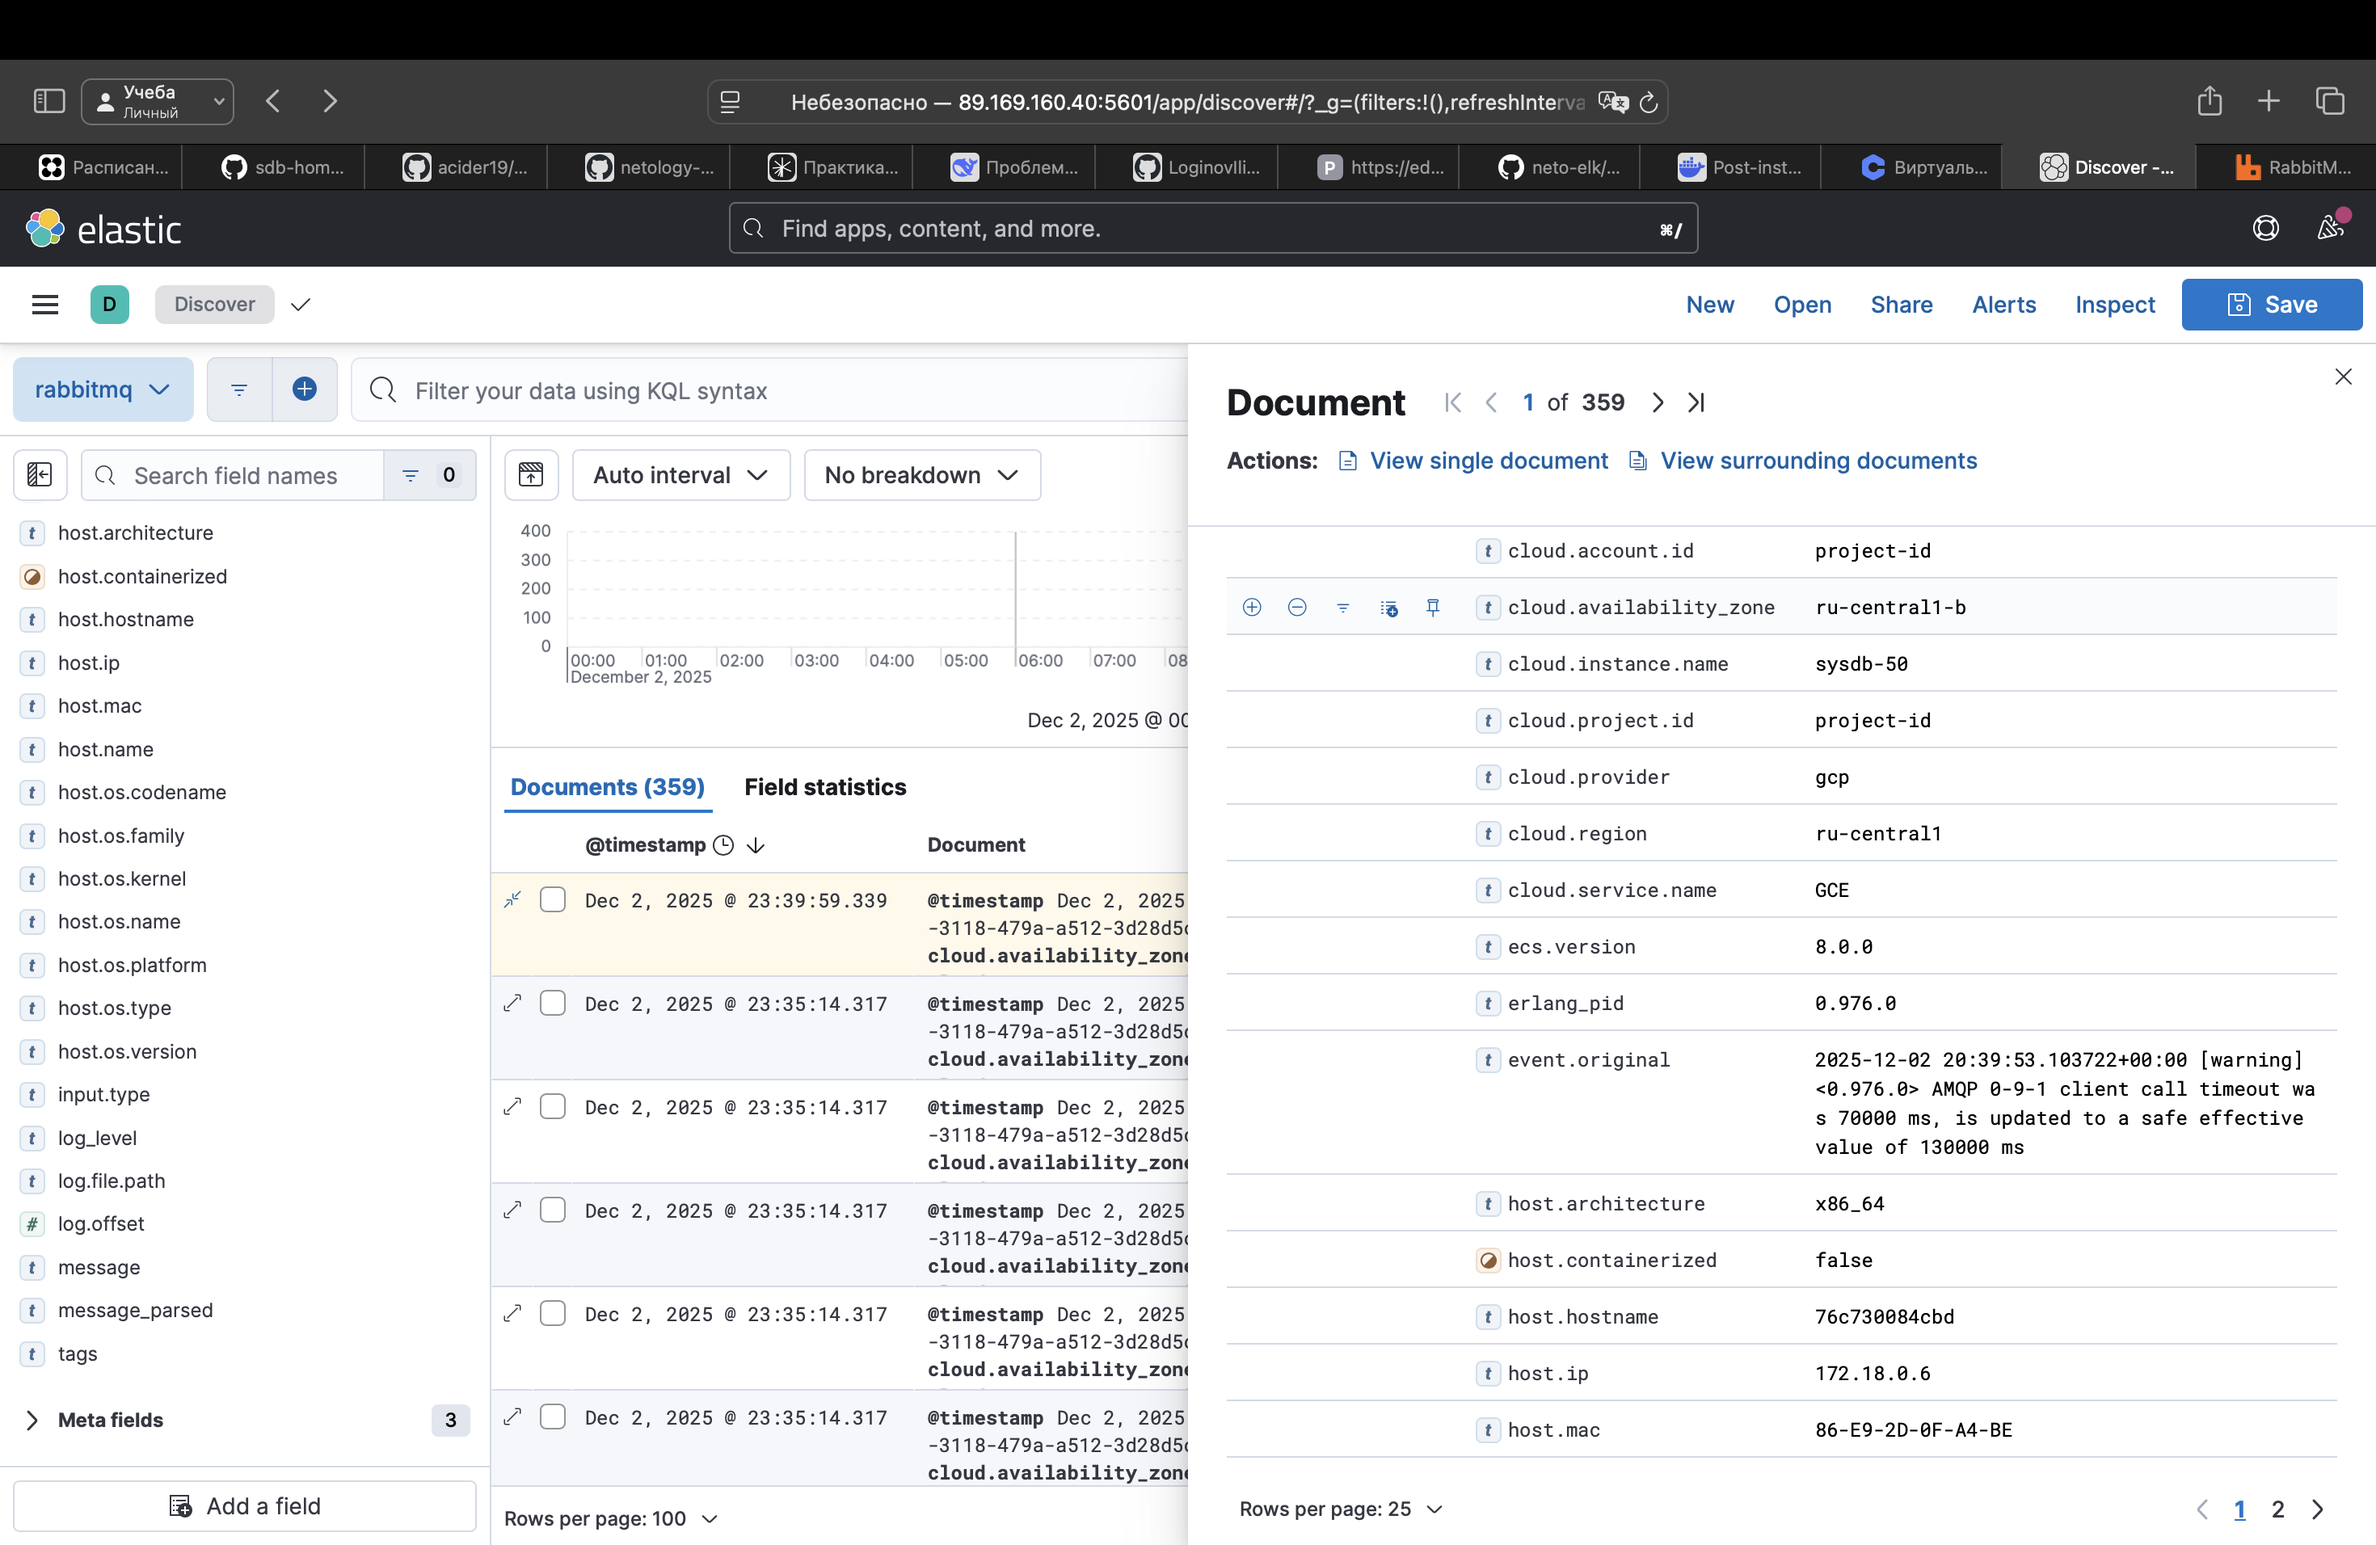
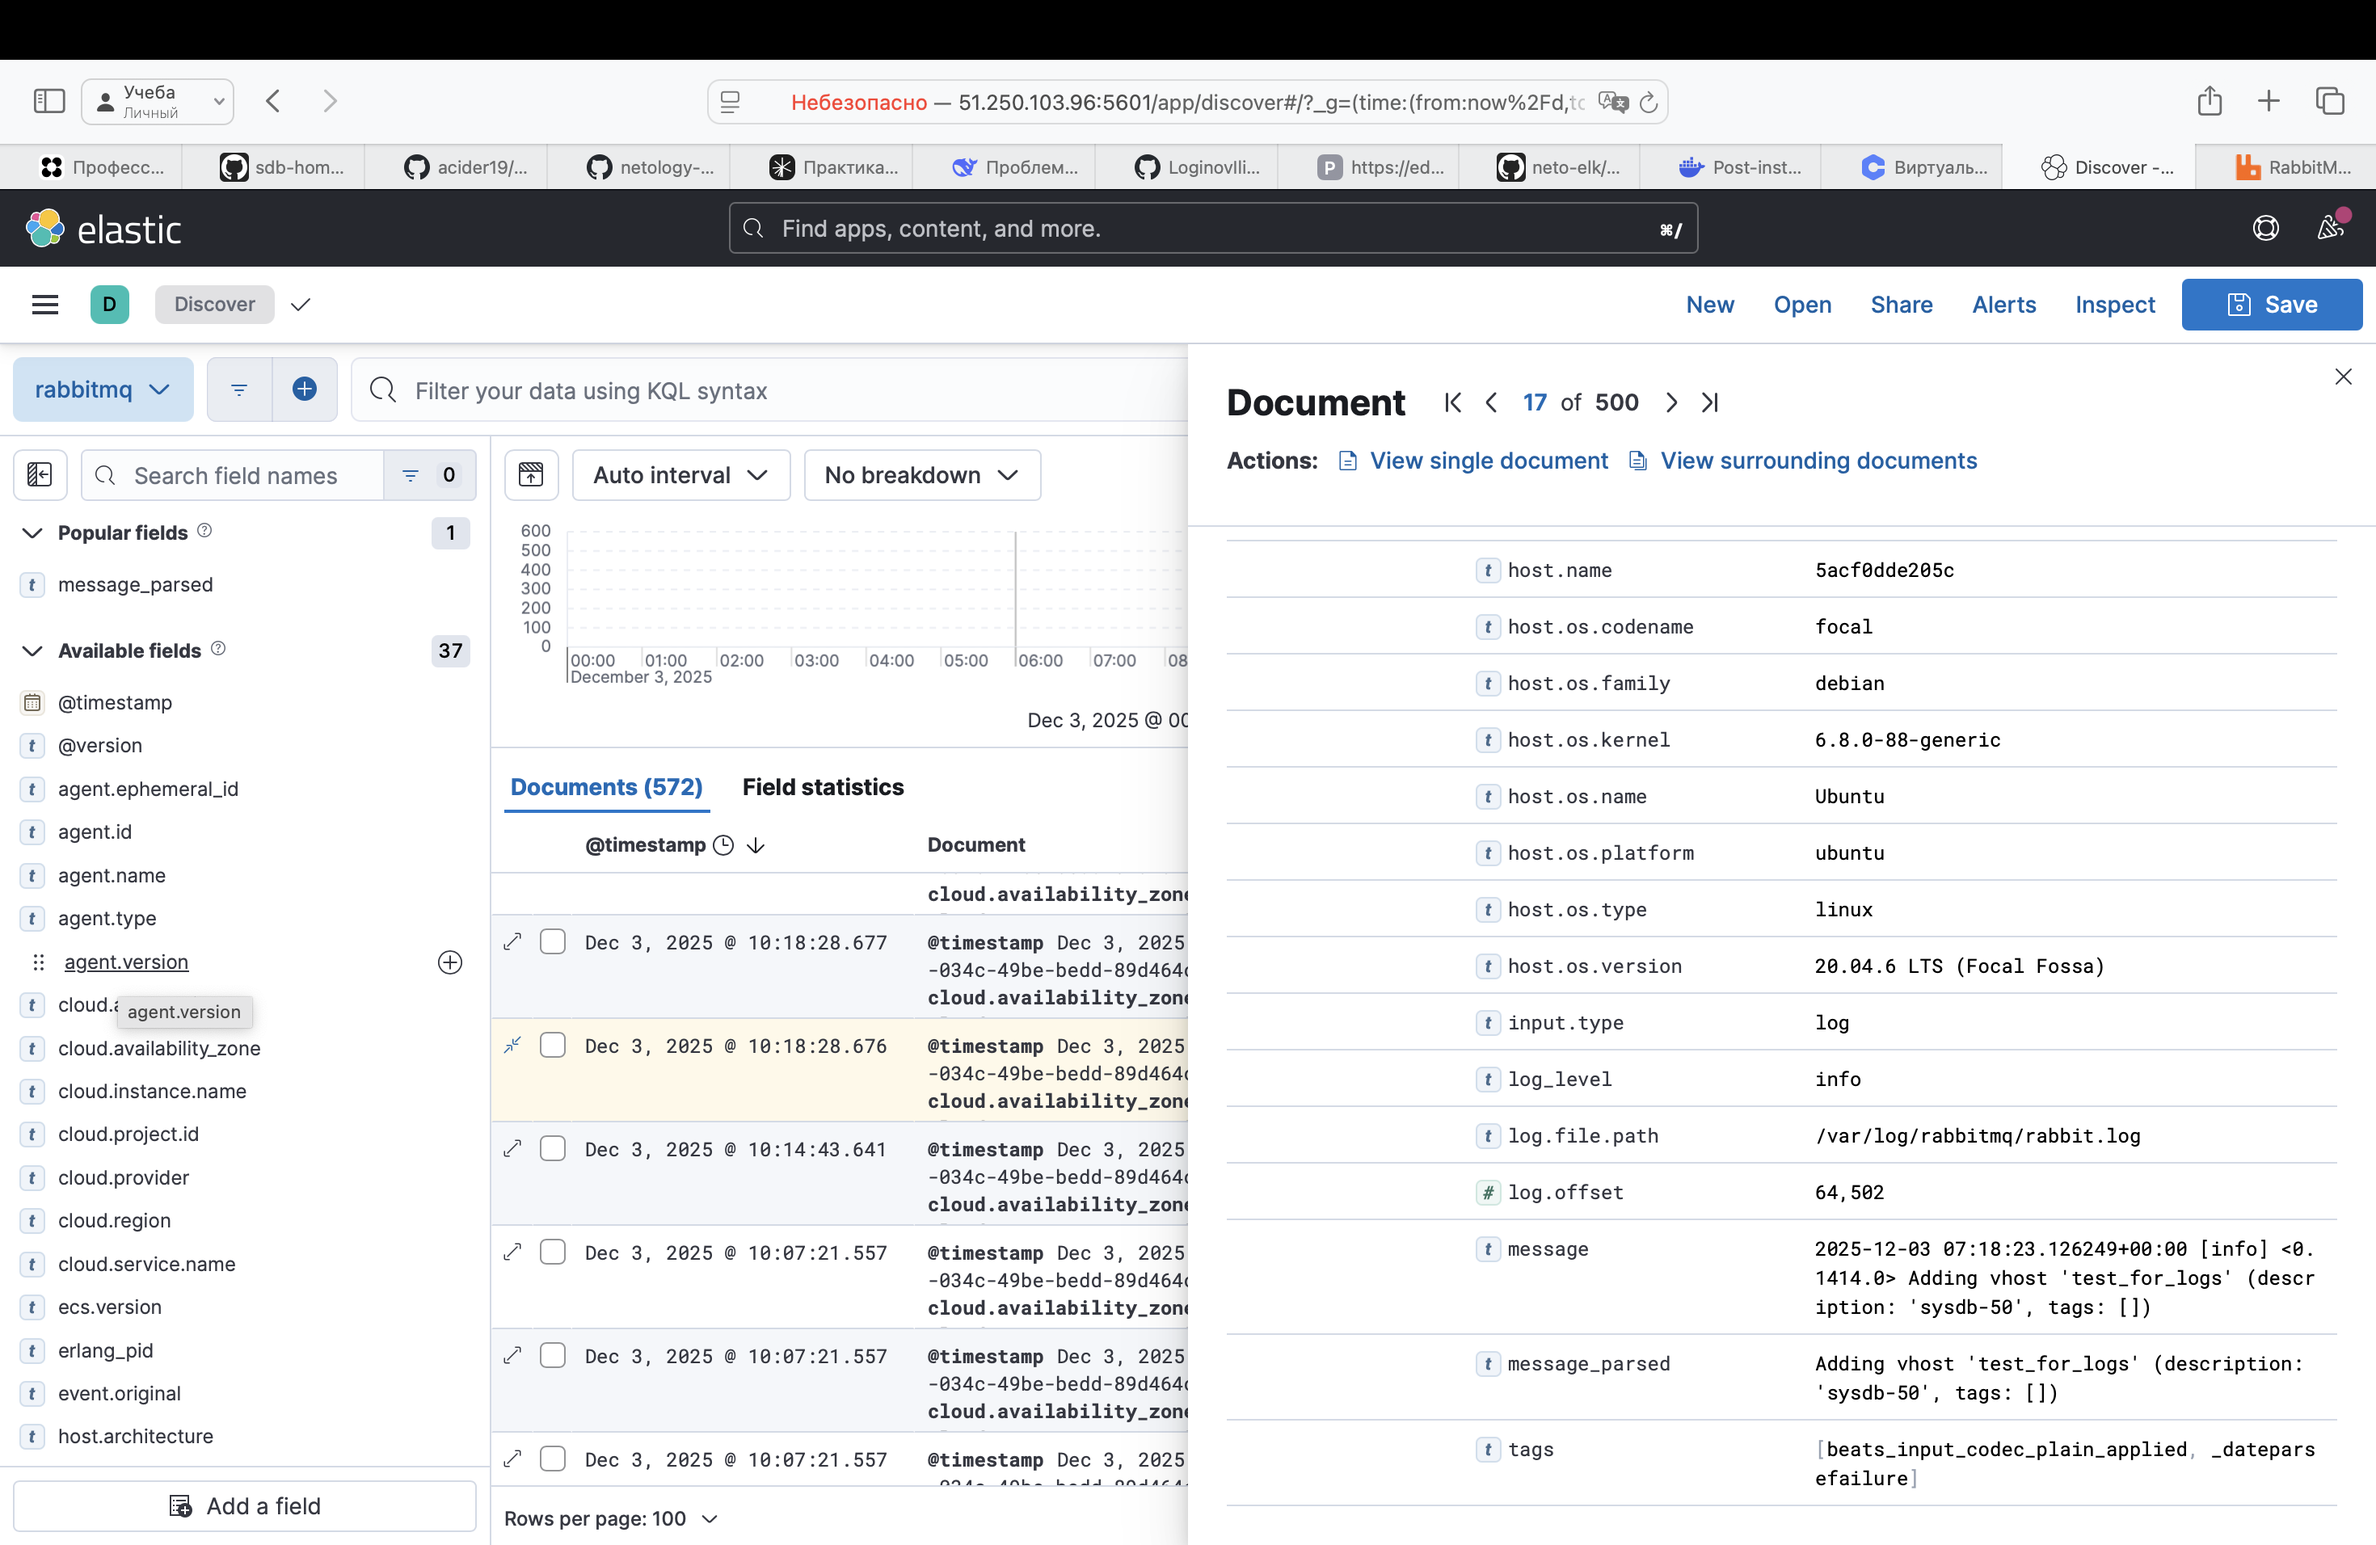
Изменен скриншот в задании 5

diff --git a/README.md b/README.md
@@ -57,6 +57,6 @@
 Приведите скриншот интерфейса Kibana, на котором будет виден этот лог и напишите лог какого приложения отправляется.
 
 
-Логи собираются с RabbitMQ
+Для данного задания логи собираются с RabbitMQ (на скриншоте зафиксировано событие создания vhost).
 
 ![rabbitmq logs](/img/screen5.png)
